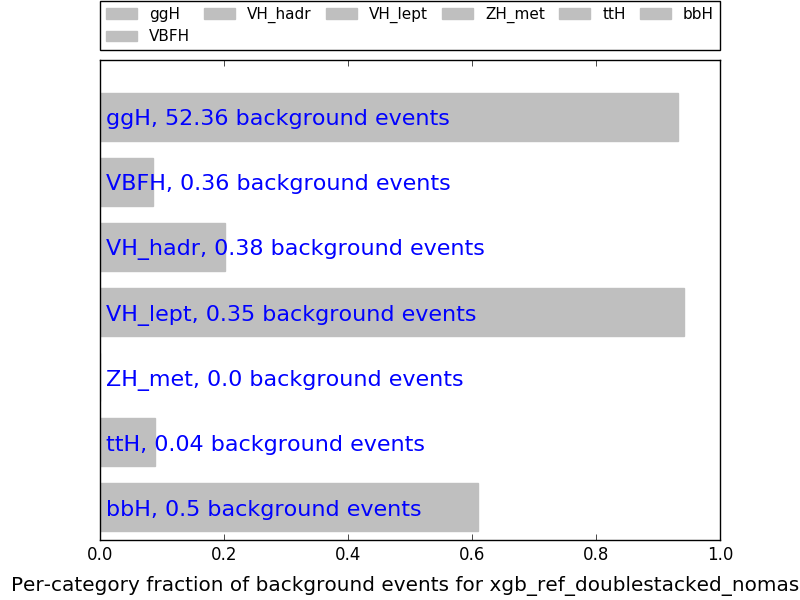
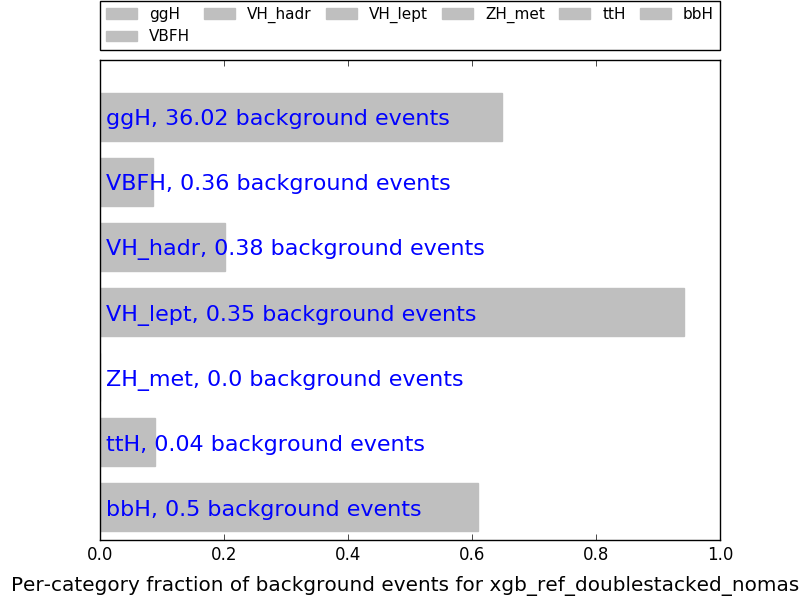
New tables

Changed region(s): [[0.625, 0.15, 0.875, 0.24], [0.1875, 0.18, 0.2812, 0.21]]

diff --git a/core/trainer.py b/core/trainer.py
@@ -263,7 +263,7 @@ def train_third_layer(model_name, early_stopping_rounds=30, cv_folds=5):
     predictions = first_stack.predict(train[predictors]).astype(int)
     bkg_predictions = first_stack.predict(bkg_train[predictors]).astype(int)
 
-    for category in range(4, 5):
+    for category in range(7):
         sub_train = train.iloc[np.where(predictions == category)]
         # sub_label = (train_label[np.where(predictions == category)] == category).astype(int)
         sub_label = np.ones_like(sub_train)
@@ -282,7 +282,7 @@ def train_third_layer(model_name, early_stopping_rounds=30, cv_folds=5):
         sub_train = pd.concat([sub_train, sub_train_bkg])
         # print(sub_train['prod_mode'].value_counts())
         # print(bkg_train_weights[np.where(bkg_predictions == category)], np.sum(bkg_train_weights))
-        if len(sub_train['prod_mode'].unique()) == 1 or True:
+        if len(sub_train['prod_mode'].unique()) == 1 or category == 4:
             logging.info('validator ' + str(category) + ' is useless')
             with open('saves/classifiers/' + model_name + suffix + '_subsubcategorizer' + str(category) + '.pkl', 'wb') as f:
                 pickle.dump(dummy_predictor(1), f)
@@ -363,7 +363,7 @@ class double_stacked_model(object):
             indices = np.where(predictions.astype(int) == idx)
             subset = events.iloc[indices]
             modify = np.logical_not(rejector.predict(subset).astype(bool))
-            predictions[indices[0][modify]] = None  # Maybe set it to a new category for background
+            predictions[indices[0][modify]] = -10  # Maybe set it to a new category for background
         return predictions
 
 def make_stacked_predictors(model_name):

diff --git a/main.py b/main.py
@@ -13,9 +13,9 @@ logging.info('Logger initialized from main script')
 if cst.ignore_warnings:
     warnings.filterwarnings('ignore')
 
-#evl.content_plot('xgb_ref', save=True)
-#evl.content_plot('xgb_ref_stacked', save=True)
-#evl.content_plot('xgb_ref_doublestacked', save=True)
+evl.content_plot('xgb_ref', save=True)
+evl.content_plot('xgb_ref_stacked', save=True)
+evl.content_plot('xgb_ref_doublestacked', save=True)
 evl.make_pretty_table('xgb_ref_doublestacked')
 
 exit()
@@ -50,9 +50,9 @@ for plop in [1]:
                 ctg.model_training(model_name)
             elif model_name[0] == 'x':
                 logging.info('Training second layer for ' + model_name + suffix)
-            #    ctg.train_second_layer(model_name)
+                ctg.train_second_layer(model_name)
                 logging.info('Stacking second layer for ' + model_name + suffix)
-            #    ctg.make_stacked_predictors(model_name)
+                ctg.make_stacked_predictors(model_name)
                 logging.info('Training third layer for ' + model_name + suffix)
                 ctg.train_third_layer(model_name)
                 logging.info('Stacking third layer for ' + model_name + suffix)
@@ -65,7 +65,7 @@ for plop in [1]:
             logging.info('Generating predictions for ' + model_name + suffix)
             #ctg.generate_predictions(model_name)
         try:
-            #raise IOError
+            raise IOError
             open('saves/metrics/' + model_name + suffix + '_acceptance.txt', 'rb')
         except IOError:
             logging.info('Generating metrics for ' + model_name + suffix)

diff --git a/core/evaluation.py b/core/evaluation.py
@@ -23,7 +23,7 @@ def calculate_metrics(model_name):
         contents_table = np.zeros((nb_categories, nb_categories))
     
         for true_tag, predicted_tag, rescaled_weight in izip(true_categories, predictions, weights):
-            if predicted_tag:
+            if predicted_tag >= 0:
                 contents_table[predicted_tag, true_tag] += rescaled_weight
     
         contents_table *= cst.luminosity
@@ -75,10 +75,12 @@ def make_pretty_table(model_name):
         bkg_predictions = bkg_predictions_ref[bkg_mask_fs]
 
         for true_tag, predicted_tag, rescaled_weight in izip(true_categories, predictions, weights):
-            contents_table[predicted_tag, true_tag] += rescaled_weight
+            if predicted_tag >= 0:
+                contents_table[predicted_tag, true_tag] += rescaled_weight
 
         for predicted_tag, rescaled_weight in izip(bkg_predictions, bkg_weights):
-            contents_table[predicted_tag, -1] += rescaled_weight
+            if predicted_tag > 0:
+                contents_table[predicted_tag, -1] += rescaled_weight
         
         contents_table *= cst.luminosity
 
